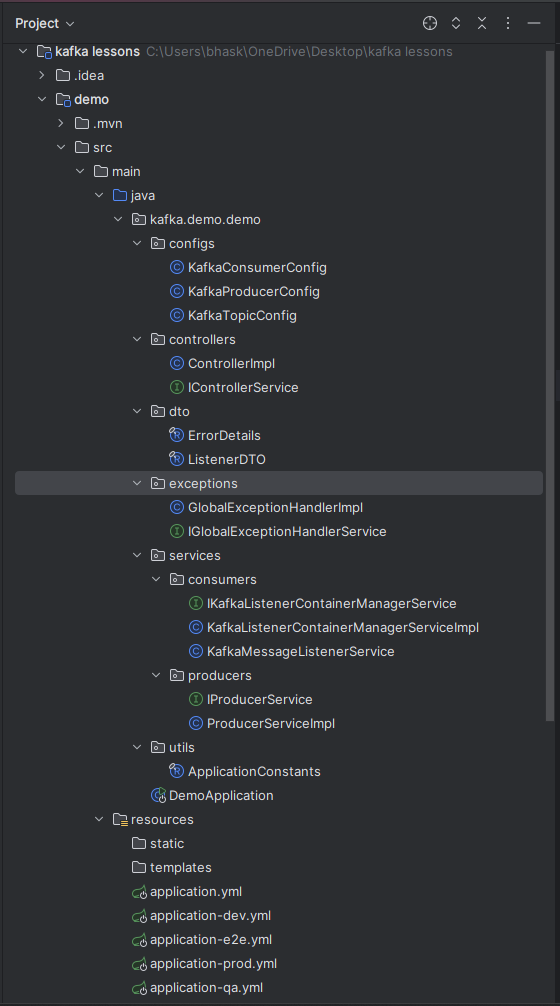
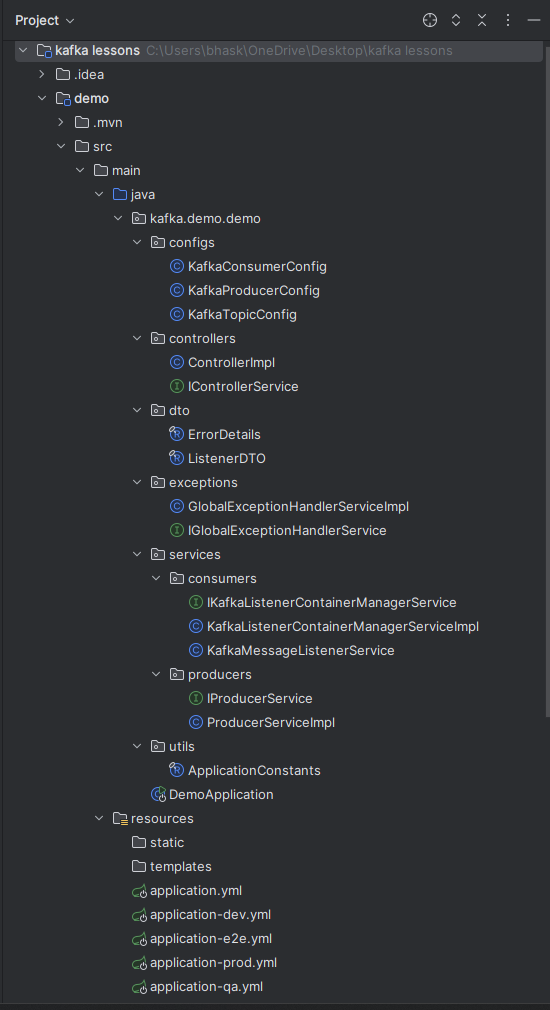
fixing the exception handling problem.

Changed region(s): [[0.0, 0.0, 1.0, 1.0], [0.9891, 0.9861, 1.0, 1.0]]

diff --git a/readme.md b/readme.md
@@ -25,7 +25,7 @@ to make it easily understandable with easy to follow hands on activities. Enjoy!
 
 
 3) Clone my repo & do a simple maven import
-   ![img_1.png](setup_static/img_setup.png)
+   ![img.png](setup_static/img_setup.png)
 
 You are now good to follow along!!!
 
